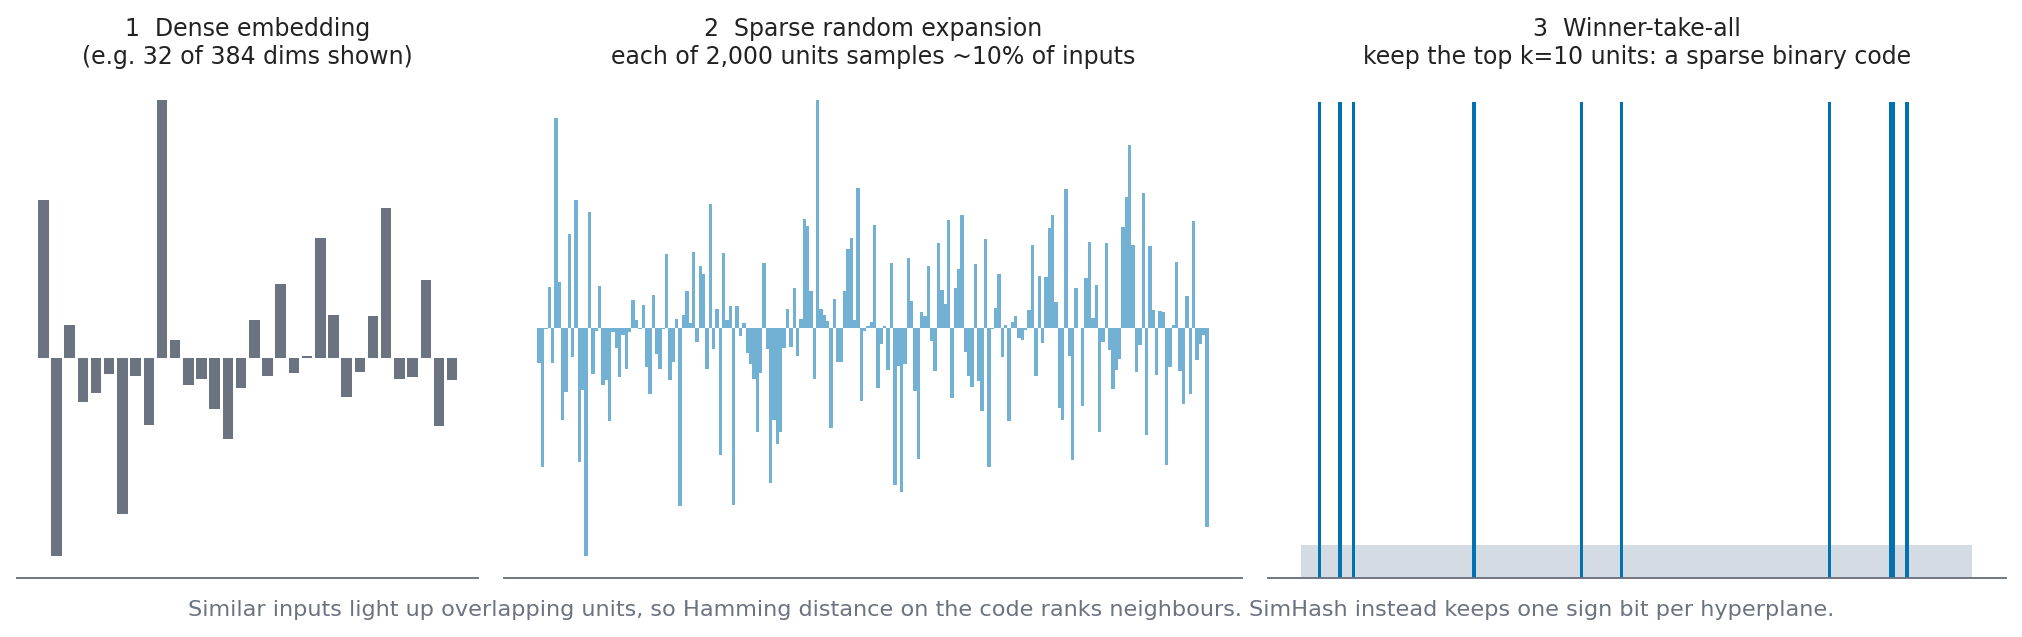
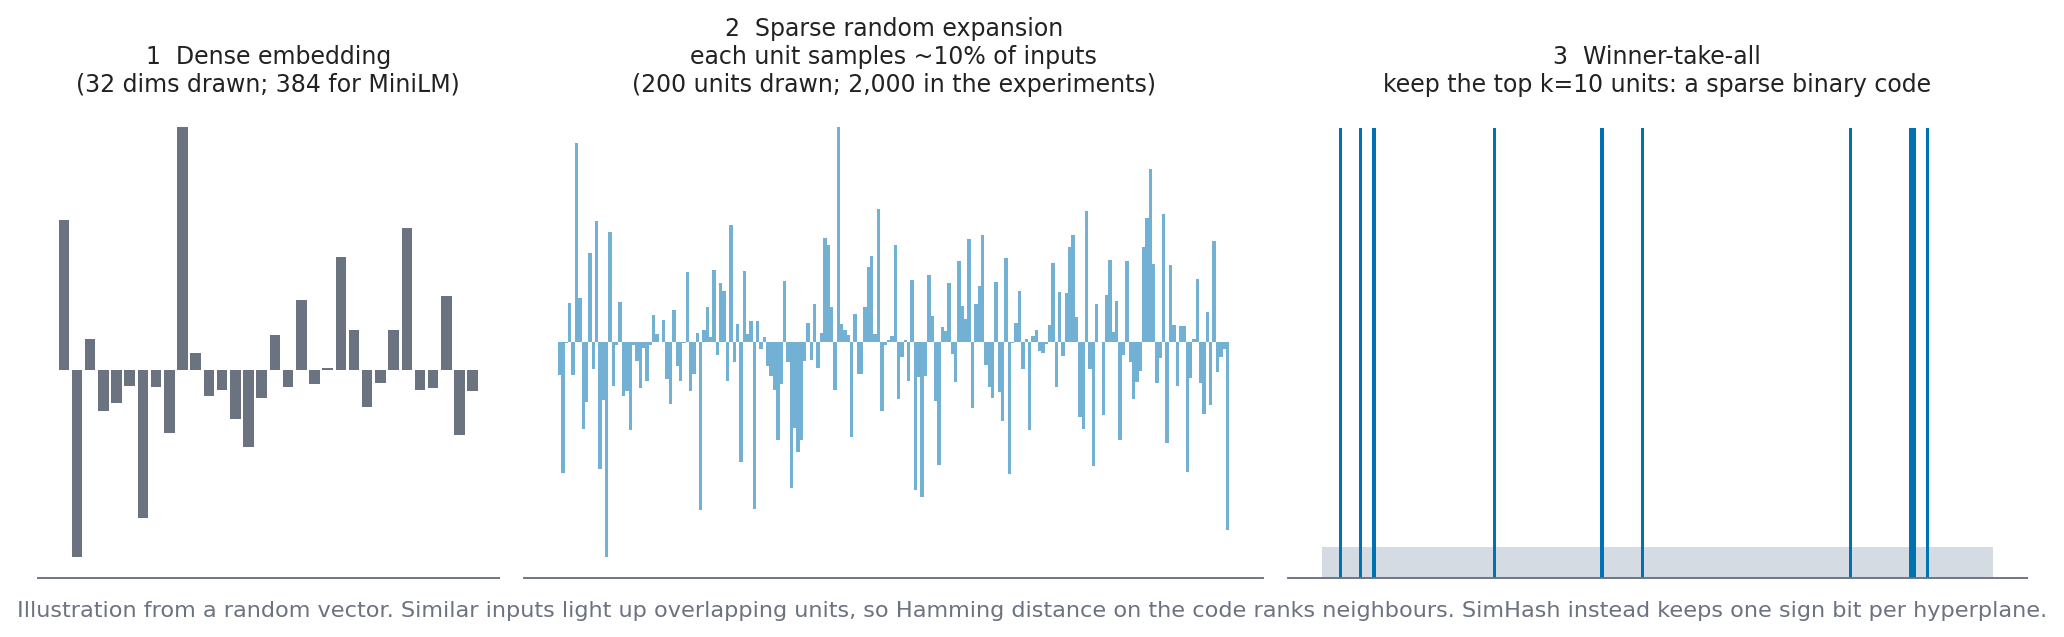
Clarify pipeline figure labels; add full author names to README

diff --git a/scripts/make_figures.py b/scripts/make_figures.py
@@ -44,11 +44,11 @@ def fig_pipeline():
 
     fig, ax = plt.subplots(1, 3, figsize=(12, 3.6), gridspec_kw={"width_ratios": [1, 1.6, 1.6]})
     ax[0].bar(range(d), x, color=MUTED, width=0.8)
-    ax[0].set_title("1  Dense embedding\n(e.g. 32 of 384 dims shown)", fontsize=10)
+    ax[0].set_title("1  Dense embedding\n(32 dims drawn; 384 for MiniLM)", fontsize=10)
     ax[0].set_yticks([]); ax[0].set_xticks([])
 
     ax[1].bar(range(m), act, color=FLY, alpha=0.55, width=1.0)
-    ax[1].set_title("2  Sparse random expansion\neach of 2,000 units samples ~10% of inputs", fontsize=10)
+    ax[1].set_title("2  Sparse random expansion\neach unit samples ~10% of inputs\n(200 units drawn; 2,000 in the experiments)", fontsize=10)
     ax[1].set_yticks([]); ax[1].set_xticks([])
 
     colors = np.where(code > 0, FLY, "#d5dbe3")
@@ -57,7 +57,7 @@ def fig_pipeline():
     ax[2].set_yticks([]); ax[2].set_xticks([])
     for a in ax:
         a.spines["left"].set_visible(False)
-    fig.text(0.5, -0.02, "Similar inputs light up overlapping units, so Hamming distance "
+    fig.text(0.5, -0.02, "Illustration from a random vector. Similar inputs light up overlapping units, so Hamming distance "
              "on the code ranks neighbours. SimHash instead keeps one sign bit per hyperplane.",
              ha="center", fontsize=9.5, color=MUTED)
     fig.tight_layout()
